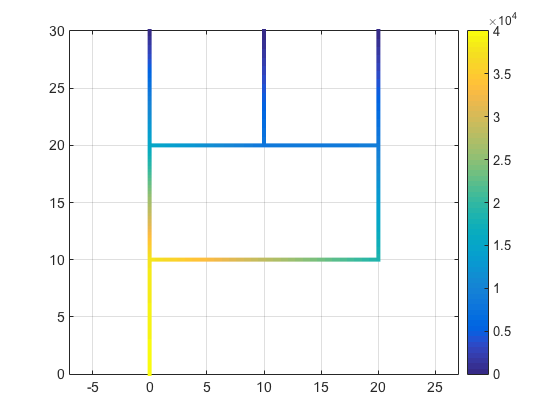
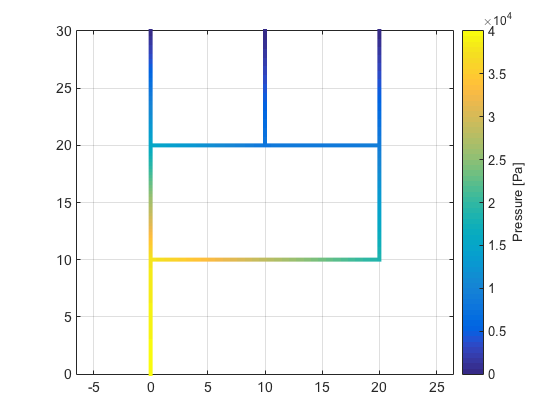
Updated.

diff --git a/FluidNetwork.m b/FluidNetwork.m
@@ -100,9 +100,10 @@ classdef FluidNetwork < handle
                 p = [p this.pipe_list(i).initial.pressure this.pipe_list(i).terminal.pressure NaN]; 
             end
             surface([x; x], [y; y], zeros(size([x; x])), [p; p], 'facecol', 'no', 'edgecol', 'interp', 'linew', 4);
+            h = colorbar();
+            ylabel(h, 'Pressure [Pa]');
             axis square; axis equal;
             grid on; box on;
-            colorbar();
         end
         
         function plot_pressure(this)  
